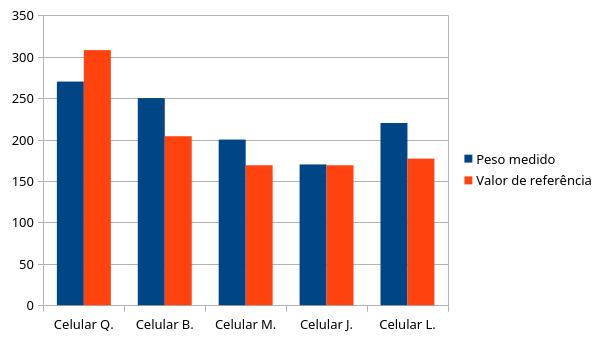
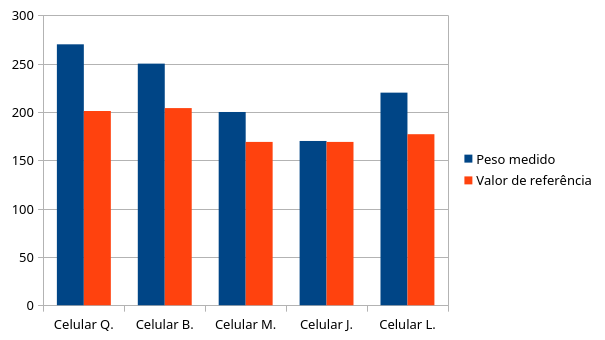
Atualização da disc pq o Queiroz mente

diff --git a/R2/disc.tex b/R2/disc.tex
@@ -17,6 +17,10 @@ principalmente, a pesagem dos celulares junto com suas capas protetoras.
     \caption{Distribuição de peso e comparação com referência}
     \label{pesos}
 \end{figure}
+Note, inclusive, que o peso medido do Celular J. possui a melhor aproximação de
+seu valor de referência, o que contribui com a hipótese de que o erro está
+fortemente associado ao uso das capas protetoras, tendo em vista que este
+aparelho foi o único pesado sem capa.
 \subsection{Gangorra}
 
 \subsection{Bonecos flutuantes}
